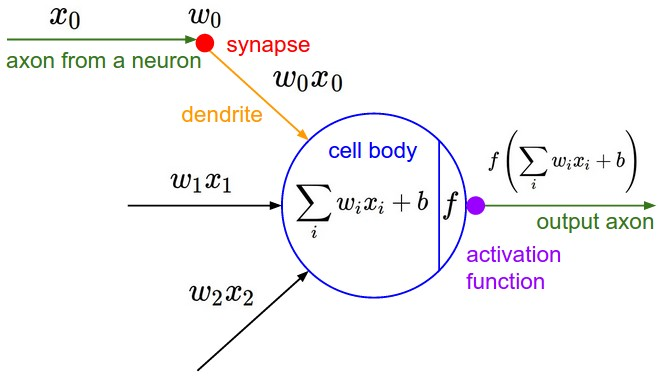
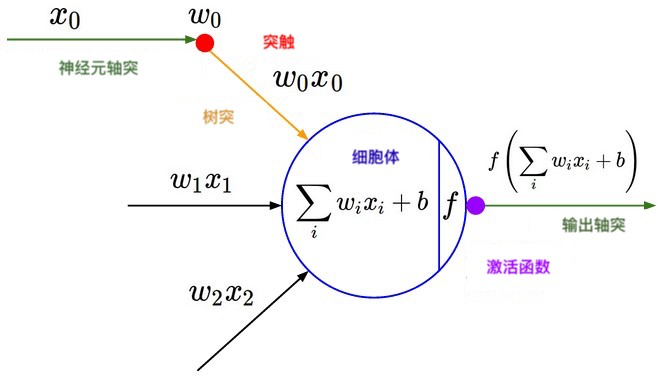
translate ANN.md to Chinese.

diff --git a/zh-CN/translate.py b/zh-CN/translate.py
@@ -43,7 +43,7 @@ def read_mds(dir_path):
     return md_file_list
 
 if __name__ == '__main__':
-    md_file = 'Specializations/HardSkills/DataVisualization.md'
+    md_file = 'Topics/ANN.md'
     print(md_file)
     md_list = open_md(md_file)
     transform_list = transform_md(md_list)

diff --git a/zh-CN/Topics/ANN.md b/zh-CN/Topics/ANN.md
@@ -1,0 +1,72 @@
+### 深度学习
+
+为了处理极其复杂的问题，例如图像的识别或对人类语言的理解，大概已知功能的数学模型通常是不够的（欠拟合问题）。
+Igor Aizenberg 及其同事在 2000 年讨论人工神经网络（ANN）时首次使用了 “深度学习” 这一表达，尽管已经在 20 世纪 70 年代设计了人工神经元表示的原型，但在实践中受过训练并具有重大限制：它们需要（大量的）计算能力。
+术语深度学习意味着使用神经网络 (我们很快就会看到他们是什么), 具有不同的深度 "级别", 因此被称为 "深度"
+在过去几年中，它们变得越来越重要，因为它们可以管理极其复杂的任务，例如视频分类（逐帧），照片中对象的识别，在多种语言中对人类语言的理解。
+大型平台（亚马逊，Netflix，谷歌，LinkedIn ......）的每个用户定制系统周六都在巨大的深度神经网络（甚至数千万个参数）上，可以处理所有复杂性，例如，Netflix 目录，包含成千上万的标题，并试图基于它以前见过的一切，它最近看到的，一天中的时间或许多其它因素找出哪个最适合用户！
+
+### 神经网络
+
+## 介绍和与生物学的联系
+
+什么是神经网络？神经网络是 ML 系统（通常是深度学习子模块）的一个组成部分，它具有大量参数（称为权重），这些参数在训练过程中逐步调整，试图有效地表示它们处理的数据，因此你可以很好地泛化将要呈现给你的新案例。
+它之所以被这样叫是因为它模仿生物大脑的结构，其中神经元通过突触交换电化学冲动，从而产生外部世界在我们脑海中刺激的表征和思想。
+例如, 如果我们看到马的图像, 视觉神经元 (放置在大脑皮层部分的一种特殊类型的神经元称为视觉皮层) 就会被激活, 并根据在我们的记忆中连接到应该是 "我看到一匹马"
+即使我们把目光移开，在短期内我们也非常清楚我们刚刚看到的图像，这是因为神经元和突触不断与记忆和先前的经验合作，为我们提供了逼真而稳固的感知。
+神经元工作所依据的模式大多是我们无法理解的模式, 即使我们看到神经生物学家和各种横向领域每天都在朝着这个方向努力。
+
+![图 1-1](./neuron.png)
+
+在成长过程中，由于我们生活的感官体验（个体神经可塑性的概念，允许我们的身体在整个生命中建立神经元和连接），个体的大脑会发展并发展它的联系。
+每次我们有感官体验或学习新东西（比如把我们的鞋子当作孩子），我们的大脑会加强神经元的一部分，特别是它们的联系。
+从某种意义上说, 想要稍微强迫生物类推, 它可能是有益的想象, 我们已经实现了这一刻的所有经验 (视觉, 触觉, 情感...) 作为一个巨大的 "训练集", 我们的网络在大脑中的神经元被塑造,不断变化, 试图以最明智的方式表示现实, 让我们做出以个人的安全为目标 (和成功的繁殖) 有意识的选择。
+例如，当我们第一次作为孩子与火相互作用并且我们被烧毁时，我们可以说通过极其简化，这发生在一个高层次：
+
+1. 我们的大脑完成了 “我认出火” - >“我用手指触碰它” 的序列。
+2. 事件被 “标记” 为坏（我们感到痛苦）。
+3. 大脑将这两条信息（一个数据及其标记）作为输入，并试图了解当我识别火时激活了哪些神经元序列。
+4. 大脑 “更新” 其结构（构建新神经元，突触和肿胀现有神经元）以改善并学习不要重复此动作。尽可能地简化，就好像大脑将 “烧伤” 的概念 “链接” 到“我看到火”的序列 -> “我用我的皮肤触碰它”。
+5. 下一次大脑看到火时，大脑设置为 “学会不烧伤” 的一系列神经元被激活，并通过与杏仁核（我们的记忆所在的位置）合作，它将我们从新的危险中拯救出来。
+
+## 单神经元作为分类器
+
+我们刚刚看到的过程（学习不触碰火）包含一些启发了当今使用的神经网络设计的关键元素。
+我们将在接下来的章节中看到人工神经网络如何将标记数据（我们称之为 “facts”）作为输入，试图了解每个神经元如何权衡正确或不正确的分类尝试，并试图 “拍摄快照”，稍后，稍微修改它们。
+人工神经元如下构成：它们具有中心 “体”（由数字表示），输出激活函数“决定” 该神经元是否将与其连接的神经元（或将自身激活）通信，以及来自其它神经元的一系列输入，这些输入不时地促成个体神经元的激活与否。
+然后，人工神经元将一系列输入（之前神经元的输出）作为输入，将这些值相加并将它们与其当前值组合，如果此计算达到某个阈值，则激活神经元，将其激活函数应用于计算刚刚制造并向前传播到它的 “下层” 神经元。
+我们可以想象，如果其输入的总和大于 0.5，则激活函数“向前传递”（前馈传递），否则它不会这样做。
+在这种情况下，我们可以训练神经元接受输入并根据它是否有效（二分类）在两种不同的情况下对其进行分类。
+在图像中：x0 是从另一个神经元接收的输入，w0 是该神经元与当前神经元之间的连接。
+F 是神经元的激活函数（实践中有好几种），如果它达到所选的激活阈值，则应用于神经元的内部计算。
+为了对 “激活阈值” 的概念进行编码，我们使用一个称为偏置的数字作为偏移量，将其添加到激活计算中（图像中的 b）。
+
+![图 1-1](./Aneuron.png)
+
+## 神经网络简介
+
+在实践中，单个人工神经元在解决问题方面毫无用处，因为它太简单了。
+但是通过将该神经元的许多副本构造成层级，可以创建复杂的结构，例如，能够捕获图像的复杂性并对其进行分类。
+术语神经网络是指在非循环图中连接在一起的一系列神经元，组织成层。
+最基本的层由一定数量的神经元组成，这些神经元连接到下一层的所有神经元（但不连接到同一层上的神经元），并称为全连接层。
+除输入和输出之外至少有一层的神经网络称为深度神经网络，其中隐藏层是内部层。
+
+![图 1-1](./net1.png)
+
+在图像中，网络具有包含 3 个神经元的输入层，4 的隐藏层和 2 个输出层（二分类）。
+在这种情况下，网络在不计算输入的情况下，[3 x 5] + [5 x 2] + 5（隐藏偏置）+ 2（输出偏置）= 27 个可修改的参数。
+具有数亿个参数的现代网络以大约 15-25 个级别组织。
+用于多层神经网络的另一个名称是 MPL（多层感知机）。
+这种神经网络称为前馈神经网络，因为数据只是 “向前” 传播。
+还有其它类型的网络（RNN），其神经元反而多次看到相同数据的通过，并实现网络 “记忆” 的概念。
+这些被广泛用于识别人类语言，其中主语从一个句子变为一个句子，但是上下文通常保持相同，并且必须在解释新句子时被网络“记住”。
+
+希望你现在熟悉人工神经网络的概念。
+在下一个高级指南中，我们将了解如何构建和训练此类网络以解决分类问题。
+
+如果你喜欢 Virgil 的内容并分享我们所有人都可以访问的开放式教育愿景，请在 Google 表格中分享和注册，每当新指南出来时你都会得到更新！
+
+
+------------------
+
+由_clone95_撰写

diff --git a/zh-CN/Specializations/HardSkills/DataPreprocessing.md b/zh-CN/Specializations/HardSkills/DataPreprocessing.md
@@ -52,9 +52,9 @@
 在这次非正式会议期间，询问以下数据问题：
 - 你打算解决哪个业务问题？ (什么是重要的，什么不是)
 - 你是如何被收集的(有噪音，缺失值......) ？
-- 你们有多少朋友在那里，我在哪里可以找到他们？ (数据维度和从存储中检索)
+- 你们有多少朋友在那里，我在哪里可以找到它们？ (数据维度和从存储中检索)
 
-最终，你可能会发现数据太安静了，也许他们只是害羞！
+最终，你可能会发现数据太安静了，也许它们只是害羞！
 无论如何，你将 [向业务用户询问这些问题](https://business-analysis-excellence.com/business-requirements-meeting/) ！
 _最佳实践和练习：_ [1](https://www.iqint.org/idq2013/presentations/downloads/di_loreto_data_profiling_tutorial_monday_am.pdf), [2](https://community.alteryx.com/t5/Alteryx-Designer-Discussions/Data-profiling-tutorials-use-cases-and-exercise/td-p/145347)
 
@@ -70,7 +70,7 @@ _最佳实践和练习：_ [1](https://www.iqint.org/idq2013/presentations/downl
 每次要尝试数据准备步骤时，处理 GB 数据都是愚蠢的。只需使用数据的 [小子集](https://sdtimes.com/bi/data-gets-big-best-practices-data-preparation-scale/) (但请注意它们具有代表性，并抓住所有问题) 。请记住，如果你想尝试字符串清理，则无需在 10M 行上启动脚本。
 
 ### - 工具包
-我们将要使用的工具是 Python3 和他的 [Pandas 库](https://pandas.pydata.org/) ，它是操纵数据集的事实上的标准。
+我们将要使用的工具是 Python3 和它的 [Pandas 库](https://pandas.pydata.org/) ，它是操纵数据集的事实上的标准。
 这里繁重的工作是由 [DataFrame 类](https://pandas.pydata.org/pandas-docs/stable/reference/api/pandas.DataFrame.html) 完成的，它为你提供了许多有用的功能日常数据任务。
 希望你已经知道 Python，如果不是从那里开始(按照我在 ML 指南要求中建议的步骤) ，然后采取这个 [初学者 Pandas 教程](https://pandas.pydata.org/pandas-docs/stable/getting_started/10min.html)。不要担心，如果现在一些想法不完全清楚，但试图了解常见的 [Pandas 操作](https://www.analyticsvidhya.com/blog/2016/01/12-pandas-techniques-python-data-manipulation/)。
 
@@ -80,7 +80,7 @@ _最佳实践和练习：_ [1](https://github.com/guipsamora/pandas_exercises), 
 [数据清理](https://en.wikipedia.org/wiki/Data_cleansing) 是获取数据的一般过程，在你清楚了解它们之后，你需要实现更换字符的实际过程，去掉不完整的行，填充缺失值等等。在接下来的部分中，我们将探讨所有常见的数据清理情况。
 
 ### - 摆脱额外的空格
-你要做的第一件事就是 [删除多余空格](https://stackoverflow.com/questions/43332057/pandas-strip-white-space) 。小心点！有些空格可能携带信息，但在很大程度上取决于具体情况。例如，在“完整名称” 中：“Giacomo Ciarlini” 很高兴有空格，所以我们可以稍后将其分为 "Name": "Giacomo" 和"Surname": "Ciarlini"。我希望你注意到，除了推荐和建议定制系统之外，名称或 ID 等唯一标识符通常可以放弃。通常，他们不携带信息。
+你要做的第一件事就是 [删除多余空格](https://stackoverflow.com/questions/43332057/pandas-strip-white-space) 。小心点！有些空格可能携带信息，但在很大程度上取决于具体情况。例如，在“完整名称” 中：“Giacomo Ciarlini” 很高兴有空格，所以我们可以稍后将其分为 "Name": "Giacomo" 和"Surname": "Ciarlini"。我希望你注意到，除了推荐和建议定制系统之外，名称或 ID 等唯一标识符通常可以放弃。通常，它们不携带信息。
 _额外提示_：学习如何使用 [正则(Regex)](https://www.analyticsvidhya.com/blog/2015/06/regular-expression-python/) 进行模式匹配，这是每个数据人需要的强大工具之一主。
 
 _最佳实践和练习：_ [1](https://www.quora.com/How-do-you-remove-all-whitespace-from-a-Python-string), [2](https://towardsdatascience.com/5-methods-to-remove-the-from-your-data-in-python-and-the-fastest-one-281489382455), [3](https://www.tutorialspoint.com/How-to-remove-all-leading-whitespace-in-string-in-Python)

diff --git a/zh-CN/LearningPaths/Machine Learning Engineer Career Path/README.md b/zh-CN/LearningPaths/Machine Learning Engineer Career Path/README.md
@@ -104,7 +104,7 @@ python -m pip install --upgrade pip
 ### 为什么选择 Scikit-Learn
 [Scikit-Learn](https://scikit-learn.org/stable/) 是机器学习任务中最完整，最成熟，良好文档的库之一。它开箱即用，具有强大而先进的模型，可为数据科学过程提供设施功能。
 
-我们将沿着这条路学习和使用其他模块。要快速使用，请查看他们的官方文档。
+我们将沿着这条路学习和使用其它模块。要快速使用，请查看它们的官方文档。
 
 
 ### 端到端机器学习项目
@@ -184,7 +184,7 @@ _其次看：_
 -------------------------------------------------- ---------------
 
 ## TensorFlow 神经网络
-在本节中，我们将按照斯坦福大学深度学习课程和我通过互联网搜索的一些教程，遵循一条将我们从神经网络的零知识带到完全理解它们的轨道。其中一些来自谷歌，其他来自斯坦福大学或剑桥大学，你将学习利用神经网络 (ANN，CNN，RNN) 进行几种 ML 任务。
+在本节中，我们将按照斯坦福大学深度学习课程和我通过互联网搜索的一些教程，遵循一条将我们从神经网络的零知识带到完全理解它们的轨道。其中一些来自谷歌，其它来自斯坦福大学或剑桥大学，你将学习利用神经网络 (ANN，CNN，RNN) 进行几种 ML 任务。
 这些是使用 TensorFlow 进行 ML 任务的 [某些用例](https://www.digitaldoughnut.com/articles/2017/march/top-5-use-cases-of-tensorflow) 。
 
 乍一看，理解神经网络的理论和应用并不容易。 你需要反复阅读教程才能完全理解该主题。 我花了相当多的时间试图理解它们。 阅读文章，官方论坛，学习路径（如此）和相关的 subreddits 是深入学习概念，公式，权衡的最有效方式......
@@ -326,7 +326,7 @@ _其次看：_
 - 数据科学速查表 [极其庞大的收藏](https://github.com/FavioVazquez/ds-cheatsheets)
 - 真实数据科学/ML 项目的 [无限集合](https://docs.google.com/document/d/e/2PACX-1vRRC3ZIcvjFqEYEgnN9pptoWONr2mSGZJ4hSdL8Jpf2IpXdxjTc-d3jrpb98h59xJnZ3h1frUDydoxc/pub)
 - TensorFlow 中的教程和 ML 项目的 [无限集合](https://github.com/jtoy/awesome-tensorflow)
-- [其他 TensorFlow 示例](https://github.com/aymericdamien/TensorFlow-Examples)
+- [其它 TensorFlow 示例](https://github.com/aymericdamien/TensorFlow-Examples)
 
 ### 工具
 

diff --git a/zh-CN/Specializations/SoftSkills/ImpactfulPresentations.md b/zh-CN/Specializations/SoftSkills/ImpactfulPresentations.md
@@ -58,7 +58,7 @@
 如果你了解自己的受众，他们的品味和兴趣，你可以以最佳和最有针对性的方式构建你的演示文稿。 [这里](https://www.ethos3.com/2009/10/5-ways-to-get-to-know-your-audience/) 你还可以找到 5 种方法。
 
 ### 开发高质量的内容
-内容是演示文稿的核心。虽然下面的所有其他想法将帮助你提高内容的效率，但精彩的演示文稿会以精彩的内容开始和结束。因此，请不要通过缩短开发内容的工作量来缩短受众群体。如果你想创建一个受众喜爱的演示文稿，你将需要投入大量时间进行研究，撰写和提出反馈。你想要尽可能地改进你的材料，但不要过度准备一切，否则，你会显得过于僵化和人为：我们会看到本指南中的一个关键点是 “真实的”。
+内容是演示文稿的核心。虽然下面的所有其它想法将帮助你提高内容的效率，但精彩的演示文稿会以精彩的内容开始和结束。因此，请不要通过缩短开发内容的工作量来缩短受众群体。如果你想创建一个受众喜爱的演示文稿，你将需要投入大量时间进行研究，撰写和提出反馈。你想要尽可能地改进你的材料，但不要过度准备一切，否则，你会显得过于僵化和人为：我们会看到本指南中的一个关键点是 “真实的”。
 
 ### 构建结构
 我强烈建议你建立一个有机结构，然后在演示文稿中遵循。
@@ -96,7 +96,7 @@
 ### 不读
 真的，不要这样做。阅读幻灯片会让受众感到厌烦，你似乎也不那么自信了。
 [这里](https://www.techwell.com/2013/10/give-better-presentation-don-t-read-your-slides) 为什么。
-[这里](https://academia.stackexchange.com/questions/76370/why-do-most-people-think-its-a-bad-idea-to-read-from-slides) 一个充满其他原因的矿井。
+[这里](https://academia.stackexchange.com/questions/76370/why-do-most-people-think-its-a-bad-idea-to-read-from-slides) 一个充满其它原因的矿井。
 
 ### 有趣
 吸引人们的最佳方式是吸引他们的注意力。这样做并不是那么容易，但通过一些心理技巧，你可以迷惑并说服他们。 [这里](https://www.inc.com/sims-wyeth/how-to-capture-and-hold-audience-attention.html) 你对我所说的内容有一个非常好的解释。

diff --git a/zh-CN/NewToDataScience/PythonBasic.md b/zh-CN/NewToDataScience/PythonBasic.md
@@ -96,7 +96,7 @@ _挑战自己_：
 - [这里](https://www.w3resource.com/python-exercises/python-conditional-statements-and-loop-exercises.php) 你有大约 20 个关于流程控制的练习。在继续之前一定要解决所有问题。
 
 ## 函数
-函数是完成特定任务的 “自包含” 代码模块。函数通常 “接收” 数据，处理数据并 “返回” 结果。一旦写入函数，就可以反复使用它。可以从其他函数内部 “调用” 函数。
+函数是完成特定任务的 “自包含” 代码模块。函数通常 “接收” 数据，处理数据并 “返回” 结果。一旦写入函数，就可以反复使用它。可以从其它函数内部 “调用” 函数。
 一个好的 **经验法则** 是：如果你意识到你要做 3 次以上的事情，那就写一个函数，并根据你的需要调用它多少次！
 
 你可以写：
@@ -158,7 +158,7 @@ _挑战自己_：
 [练习](https://www.w3resource.com/python-exercises/tuple/) 在这里。
 
 - 字典
-python 字典是无序的项的集合。虽然其他复合数据类型仅具有值作为元素，但字典具有键-值对。
+python 字典是无序的项的集合。虽然其它复合数据类型仅具有值作为元素，但字典具有键-值对。
 字典经过优化，可在密钥已知时检索值。你需要熟练掌握字典方法，因为它们是 Python 编程的基础。
 按照本书的 [**第 5 章**](https://automatetheboringstuff.com/chapter5/) ，它将启动你的词典以及如何随身携带结构化数据。
 [这里](http://openbookproject.net/thinkcs/python/english3e/dictionaries.html) 你有一本关于词典的深入实践指南。

diff --git a/zh-CN/Tools/MLDemos/README.md b/zh-CN/Tools/MLDemos/README.md
@@ -135,7 +135,7 @@ v0.5.0
 * 支持向量机（SVM） （C，nu，Pegasos）
 * 相关向量机（RVM）
 * 高斯混合模型（GMM）
-* 多层感知器 + 后向传播
+* 多层感知机 + 后向传播
 * 温柔的 AdaBoost + 朴素贝叶斯
 * 近似 K-Nearest Neighbors（KNN）
 * 高斯过程分类（GP）
@@ -243,11 +243,11 @@ v0.5.0
 ### 导入数据
 
 在 MLDemos 中生成数据有三种不同的方式：手动绘制样本，通过 PCA（通过 PCAFaces 插件）投影图像数据，或通过加载外部数据。
-可以将逗号分隔值或其他基于文本文件的值表拖放到界面中。在这种情况下，将出现 “数据加载” 对话框，允许选择应加载哪些列或行，解释为类标签或标题等。
+可以将逗号分隔值或其它基于文本文件的值表拖放到界面中。在这种情况下，将出现 “数据加载” 对话框，允许选择应加载哪些列或行，解释为类标签或标题等。
 
 或者，软件使用的本机数据格式是基于 ascii 的，包含：
 
-1. 维度＃ 后跟着是样本数量＃
+1. 维度# 后跟着是样本数量#
 1. 对于每个样品，一行包含
     1. 样本值以空格分隔（浮点数，每个维度一个）
     1. 样本类索引（整数 0 ... 255）
